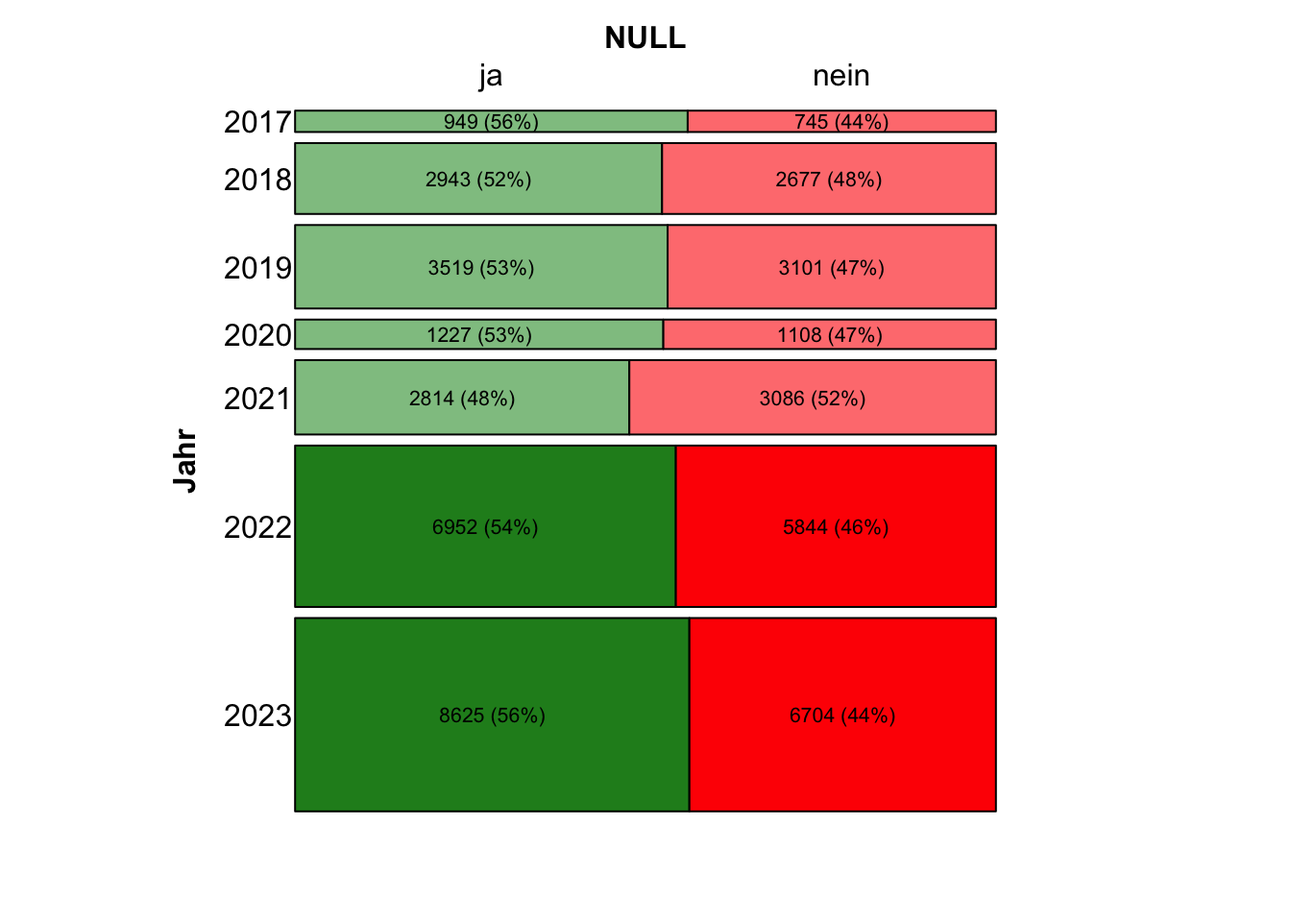
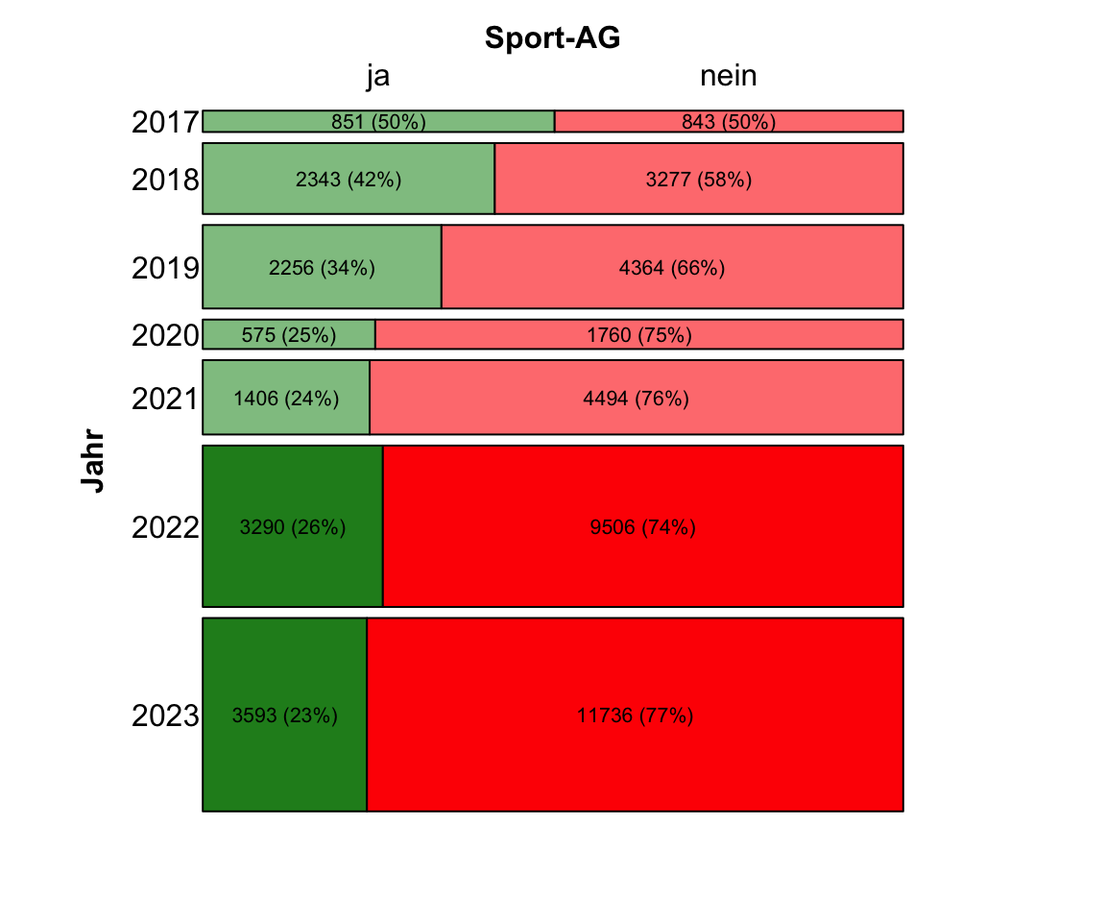
entfernung code 003

diff --git a/docs/003.html b/docs/003.html
@@ -22,40 +22,6 @@ ul.task-list li input[type="checkbox"] {
   margin: 0 0.8em 0.2em -1em; /* quarto-specific, see https://github.com/quarto-dev/quarto-cli/issues/4556 */ 
   vertical-align: middle;
 }
-/* CSS for syntax highlighting */
-pre > code.sourceCode { white-space: pre; position: relative; }
-pre > code.sourceCode > span { display: inline-block; line-height: 1.25; }
-pre > code.sourceCode > span:empty { height: 1.2em; }
-.sourceCode { overflow: visible; }
-code.sourceCode > span { color: inherit; text-decoration: inherit; }
-div.sourceCode { margin: 1em 0; }
-pre.sourceCode { margin: 0; }
-@media screen {
-div.sourceCode { overflow: auto; }
-}
-@media print {
-pre > code.sourceCode { white-space: pre-wrap; }
-pre > code.sourceCode > span { text-indent: -5em; padding-left: 5em; }
-}
-pre.numberSource code
-  { counter-reset: source-line 0; }
-pre.numberSource code > span
-  { position: relative; left: -4em; counter-increment: source-line; }
-pre.numberSource code > span > a:first-child::before
-  { content: counter(source-line);
-    position: relative; left: -1em; text-align: right; vertical-align: baseline;
-    border: none; display: inline-block;
-    -webkit-touch-callout: none; -webkit-user-select: none;
-    -khtml-user-select: none; -moz-user-select: none;
-    -ms-user-select: none; user-select: none;
-    padding: 0 4px; width: 4em;
-  }
-pre.numberSource { margin-left: 3em;  padding-left: 4px; }
-div.sourceCode
-  {   }
-@media screen {
-pre > code.sourceCode > span > a:first-child::before { text-decoration: underline; }
-}
 </style>
 
 
@@ -400,7 +366,7 @@ pre > code.sourceCode > span > a:first-child::before { text-decoration: underlin
     <div>
     <div class="quarto-title-meta-heading">Geändert</div>
     <div class="quarto-title-meta-contents">
-      <p class="date-modified">9. Juli 2024</p>
+      <p class="date-modified">11. Juli 2024</p>
     </div>
   </div>
     
@@ -417,21 +383,7 @@ pre > code.sourceCode > span > a:first-child::before { text-decoration: underlin
 
 <section id="räumliche-verteilung-und-entwicklung-der-veranstaltungen" class="level2">
 <h2 class="anchored" data-anchor-id="räumliche-verteilung-und-entwicklung-der-veranstaltungen">Räumliche Verteilung und Entwicklung der Veranstaltungen</h2>
-<div class="cell" data-hash="003_cache/html/unnamed-chunk-6_ed53c7ab650eab1d2ce1c475680919fd">
-<div class="sourceCode cell-code" id="cb1"><pre class="sourceCode r code-with-copy"><code class="sourceCode r"><span id="cb1-1"><a href="#cb1-1" aria-hidden="true" tabindex="-1"></a>d<span class="sc">$</span>Type <span class="ot">&lt;-</span> <span class="fu">trimws</span>(d<span class="sc">$</span>Type)</span>
-<span id="cb1-2"><a href="#cb1-2" aria-hidden="true" tabindex="-1"></a></span>
-<span id="cb1-3"><a href="#cb1-3" aria-hidden="true" tabindex="-1"></a></span>
-<span id="cb1-4"><a href="#cb1-4" aria-hidden="true" tabindex="-1"></a>p2<span class="ot">&lt;-</span><span class="fu">ggplot</span>(d,<span class="fu">aes</span>(<span class="at">x=</span>Year,<span class="at">fill=</span>Type,<span class="at">group=</span>Type))<span class="sc">+</span></span>
-<span id="cb1-5"><a href="#cb1-5" aria-hidden="true" tabindex="-1"></a>  <span class="fu">geom_bar</span>()<span class="sc">+</span></span>
-<span id="cb1-6"><a href="#cb1-6" aria-hidden="true" tabindex="-1"></a>  <span class="fu">annotate</span>(<span class="st">"text"</span>, <span class="at">x =</span> <span class="fl">2020.5</span>, <span class="at">y =</span> <span class="fl">7.5</span>, <span class="at">label =</span> <span class="st">"COVID-19</span><span class="sc">\n</span><span class="st">Pandemie"</span>,<span class="at">size=</span><span class="dv">3</span>)<span class="sc">+</span></span>
-<span id="cb1-7"><a href="#cb1-7" aria-hidden="true" tabindex="-1"></a>  <span class="fu">scale_fill_manual</span>(<span class="at">values=</span><span class="fu">c</span>(<span class="st">"#009ee3"</span>,<span class="st">"#9dc041"</span>))<span class="sc">+</span></span>
-<span id="cb1-8"><a href="#cb1-8" aria-hidden="true" tabindex="-1"></a>  <span class="fu">xlab</span>(<span class="st">"Jahr"</span>)<span class="sc">+</span></span>
-<span id="cb1-9"><a href="#cb1-9" aria-hidden="true" tabindex="-1"></a>  <span class="fu">ylab</span>(<span class="st">"Anzahl an Sportveranstaltungen"</span>)<span class="sc">+</span></span>
-<span id="cb1-10"><a href="#cb1-10" aria-hidden="true" tabindex="-1"></a>  <span class="fu">theme_bw</span>()<span class="sc">+</span></span>
-<span id="cb1-11"><a href="#cb1-11" aria-hidden="true" tabindex="-1"></a>  <span class="fu">theme</span>(<span class="at">legend.position =</span> <span class="st">"top"</span>)<span class="sc">+</span></span>
-<span id="cb1-12"><a href="#cb1-12" aria-hidden="true" tabindex="-1"></a> <span class="fu">guides</span>(<span class="at">fill=</span><span class="fu">guide_legend</span>(<span class="at">title=</span><span class="st">""</span>))</span>
-<span id="cb1-13"><a href="#cb1-13" aria-hidden="true" tabindex="-1"></a></span>
-<span id="cb1-14"><a href="#cb1-14" aria-hidden="true" tabindex="-1"></a>ggpubr<span class="sc">::</span><span class="fu">ggarrange</span>(p1,p2,<span class="at">nrow=</span><span class="dv">1</span>,<span class="at">common.legend =</span> <span class="cn">TRUE</span>,<span class="at">labels=</span><span class="st">"AUTO"</span>)</span></code><button title="In die Zwischenablage kopieren" class="code-copy-button"><i class="bi"></i></button></pre></div>
+<div class="cell" data-hash="003_cache/html/unnamed-chunk-6_3d8388a992bf84f45fafe6656345129e">
 <div class="cell-output-display">
 <div class="quarto-figure quarto-figure-center">
 <figure class="figure">
@@ -446,56 +398,7 @@ pre > code.sourceCode > span > a:first-child::before { text-decoration: underlin
 <h2 class="anchored" data-anchor-id="talentiaden">Talentiaden</h2>
 <section id="veranstaltungsorte" class="level3">
 <h3 class="anchored" data-anchor-id="veranstaltungsorte">Veranstaltungsorte</h3>
-<div class="cell" data-hash="003_cache/html/unnamed-chunk-7_2105171488f3f5c391e3e6ddea0539a0">
-<div class="sourceCode cell-code" id="cb2"><pre class="sourceCode r code-with-copy"><code class="sourceCode r"><span id="cb2-1"><a href="#cb2-1" aria-hidden="true" tabindex="-1"></a><span class="co"># Einladungen</span></span>
-<span id="cb2-2"><a href="#cb2-2" aria-hidden="true" tabindex="-1"></a>d1 <span class="ot">&lt;-</span> <span class="fu">read_csv</span>(<span class="st">"/Users/tw/Dropbox/website/bekigeki.github.io/data/Data-For-PDF-Versions-cohort-2023.csv"</span>)<span class="sc">|&gt;</span> </span>
-<span id="cb2-3"><a href="#cb2-3" aria-hidden="true" tabindex="-1"></a>  <span class="fu">filter</span>(Talentiade<span class="sc">==</span><span class="st">"TRUE"</span>)<span class="sc">|&gt;</span></span>
-<span id="cb2-4"><a href="#cb2-4" aria-hidden="true" tabindex="-1"></a>  <span class="fu">select</span>(Child,Sex,Admin,cohort)<span class="sc">|&gt;</span></span>
-<span id="cb2-5"><a href="#cb2-5" aria-hidden="true" tabindex="-1"></a>  <span class="fu">unique</span>()<span class="sc">|&gt;</span></span>
-<span id="cb2-6"><a href="#cb2-6" aria-hidden="true" tabindex="-1"></a>  <span class="fu">group_by</span>(Admin,cohort,Sex)<span class="sc">|&gt;</span></span>
-<span id="cb2-7"><a href="#cb2-7" aria-hidden="true" tabindex="-1"></a>  <span class="fu">reframe</span>(<span class="at">Einladungen=</span><span class="fu">length</span>(<span class="fu">unique</span>(Child)))<span class="sc">|&gt;</span></span>
-<span id="cb2-8"><a href="#cb2-8" aria-hidden="true" tabindex="-1"></a>  <span class="fu">mutate</span>(<span class="at">Admin =</span> <span class="fu">gsub</span>(<span class="st">"Staatliches Schulamt "</span>,<span class="st">""</span>,Admin))</span></code><button title="In die Zwischenablage kopieren" class="code-copy-button"><i class="bi"></i></button></pre></div>
-<div class="cell-output cell-output-stderr">
-<pre><code>New names:
-Rows: 92214 Columns: 120
-── Column specification
-──────────────────────────────────────────────────────── Delimiter: "," chr
-(60): Club, Admin, Performance_total, Sex, Child, Component, Admin_rank... dbl
-(57): ...1, Ambition, Admin_rank_keyage_200_limit, Admin_rank_keyage, r... lgl
-(1): Talentiade date (2): Testdate, Birthdate
-ℹ Use `spec()` to retrieve the full column specification for this data. ℹ
-Specify the column types or set `show_col_types = FALSE` to quiet this message.
-• `` -&gt; `...1`</code></pre>
-</div>
-<div class="sourceCode cell-code" id="cb4"><pre class="sourceCode r code-with-copy"><code class="sourceCode r"><span id="cb4-1"><a href="#cb4-1" aria-hidden="true" tabindex="-1"></a>d2<span class="ot">&lt;-</span>d <span class="sc">|&gt;</span> <span class="fu">filter</span>(Type<span class="sc">==</span><span class="st">"Talentiade"</span>) <span class="sc">|&gt;</span></span>
-<span id="cb4-2"><a href="#cb4-2" aria-hidden="true" tabindex="-1"></a>  <span class="fu">mutate</span>(<span class="at">cohort =</span> Year<span class="dv">-1</span>)<span class="sc">|&gt;</span></span>
-<span id="cb4-3"><a href="#cb4-3" aria-hidden="true" tabindex="-1"></a>  <span class="fu">pivot_longer</span>(<span class="at">cols =</span> <span class="fu">c</span>(TNw,TNm))<span class="sc">|&gt;</span></span>
-<span id="cb4-4"><a href="#cb4-4" aria-hidden="true" tabindex="-1"></a>  <span class="fu">rename</span>(<span class="at">Admin =</span> Board,</span>
-<span id="cb4-5"><a href="#cb4-5" aria-hidden="true" tabindex="-1"></a>         <span class="at">Teilnahmen=</span>value)<span class="sc">|&gt;</span></span>
-<span id="cb4-6"><a href="#cb4-6" aria-hidden="true" tabindex="-1"></a>  <span class="fu">mutate</span>(<span class="at">Sex =</span> <span class="fu">gsub</span>(<span class="st">"TN"</span>,<span class="st">""</span>,name))<span class="sc">|&gt;</span></span>
-<span id="cb4-7"><a href="#cb4-7" aria-hidden="true" tabindex="-1"></a>  <span class="fu">merge</span>(d1,<span class="at">all.x =</span> <span class="cn">TRUE</span>)<span class="sc">|&gt;</span></span>
-<span id="cb4-8"><a href="#cb4-8" aria-hidden="true" tabindex="-1"></a>  <span class="fu">mutate</span>(<span class="st">`</span><span class="at">Teilnahmen (%)</span><span class="st">`</span> <span class="ot">=</span> <span class="fu">round</span>(Teilnahmen<span class="sc">/</span>Einladungen<span class="sc">*</span><span class="dv">100</span>))<span class="sc">|&gt;</span></span>
-<span id="cb4-9"><a href="#cb4-9" aria-hidden="true" tabindex="-1"></a>  dplyr<span class="sc">::</span><span class="fu">filter</span>(<span class="sc">!</span>(cohort<span class="sc">&lt;</span><span class="dv">2023</span> <span class="sc">&amp;</span> Sex <span class="sc">==</span><span class="st">"w"</span>))<span class="sc">|&gt;</span></span>
-<span id="cb4-10"><a href="#cb4-10" aria-hidden="true" tabindex="-1"></a>  <span class="fu">mutate</span>(<span class="at">Sex =</span> <span class="fu">case_when</span>(cohort<span class="sc">&lt;</span><span class="dv">2023</span> <span class="sc">~</span> <span class="st">""</span>,<span class="at">.default=</span>Sex))<span class="sc">|&gt;</span> </span>
-<span id="cb4-11"><a href="#cb4-11" aria-hidden="true" tabindex="-1"></a>  <span class="fu">mutate</span>(<span class="at">Datum =</span> lubridate<span class="sc">::</span><span class="fu">ymd</span>(<span class="fu">paste0</span>(Year,<span class="st">"-"</span>,Month,<span class="st">"-"</span>,Day)))<span class="sc">|&gt;</span></span>
-<span id="cb4-12"><a href="#cb4-12" aria-hidden="true" tabindex="-1"></a>  dplyr<span class="sc">::</span><span class="fu">filter</span>(Type<span class="sc">==</span> <span class="st">"Talentiade"</span>)<span class="sc">|&gt;</span></span>
-<span id="cb4-13"><a href="#cb4-13" aria-hidden="true" tabindex="-1"></a>  <span class="fu">rename</span>(<span class="at">Ort=</span>address,</span>
-<span id="cb4-14"><a href="#cb4-14" aria-hidden="true" tabindex="-1"></a>         <span class="at">Jahr =</span> Year,</span>
-<span id="cb4-15"><a href="#cb4-15" aria-hidden="true" tabindex="-1"></a>         <span class="at">Geschlecht=</span>Sex,</span>
-<span id="cb4-16"><a href="#cb4-16" aria-hidden="true" tabindex="-1"></a>         <span class="at">Schulamt =</span> Admin</span>
-<span id="cb4-17"><a href="#cb4-17" aria-hidden="true" tabindex="-1"></a>         )</span>
-<span id="cb4-18"><a href="#cb4-18" aria-hidden="true" tabindex="-1"></a></span>
-<span id="cb4-19"><a href="#cb4-19" aria-hidden="true" tabindex="-1"></a>d2<span class="sc">|&gt;</span></span>
-<span id="cb4-20"><a href="#cb4-20" aria-hidden="true" tabindex="-1"></a>  <span class="co">#mutate(Jahr = trimws(Jahr))|&gt;</span></span>
-<span id="cb4-21"><a href="#cb4-21" aria-hidden="true" tabindex="-1"></a>  <span class="fu">select</span>(Jahr,Ort,Datum,Schulamt)<span class="sc">|&gt;</span><span class="fu">unique</span>()<span class="sc">|&gt;</span></span>
-<span id="cb4-22"><a href="#cb4-22" aria-hidden="true" tabindex="-1"></a>  <span class="fu">arrange</span>(Datum)<span class="sc">|&gt;</span></span>
-<span id="cb4-23"><a href="#cb4-23" aria-hidden="true" tabindex="-1"></a>  <span class="fu">reactable</span>(<span class="at">pagination=</span><span class="cn">FALSE</span>,</span>
-<span id="cb4-24"><a href="#cb4-24" aria-hidden="true" tabindex="-1"></a>            <span class="at">searchable =</span> <span class="cn">TRUE</span>,</span>
-<span id="cb4-25"><a href="#cb4-25" aria-hidden="true" tabindex="-1"></a>            <span class="at">sortable =</span> <span class="cn">TRUE</span>,</span>
-<span id="cb4-26"><a href="#cb4-26" aria-hidden="true" tabindex="-1"></a>            <span class="at">columns =</span> <span class="fu">list</span> (</span>
-<span id="cb4-27"><a href="#cb4-27" aria-hidden="true" tabindex="-1"></a>              <span class="at">Schulamt=</span><span class="fu">colDef</span>(<span class="at">style=</span><span class="fu">list</span>(<span class="st">`</span><span class="at">font-size</span><span class="st">`</span> <span class="ot">=</span> <span class="st">"0.70rem"</span>))),</span>
-<span id="cb4-28"><a href="#cb4-28" aria-hidden="true" tabindex="-1"></a>          <span class="co">#  filterable=TRUE,</span></span>
-<span id="cb4-29"><a href="#cb4-29" aria-hidden="true" tabindex="-1"></a>            <span class="at">groupBy =</span> <span class="fu">c</span>(<span class="st">"Jahr"</span>))</span></code><button title="In die Zwischenablage kopieren" class="code-copy-button"><i class="bi"></i></button></pre></div>
+<div class="cell" data-hash="003_cache/html/unnamed-chunk-7_accd80139bbd4a42becc0ffb40d32131">
 <div class="cell-output-display">
 
 <div class="reactable html-widget html-fill-item" id="htmlwidget-b7331ebbe70b78749d1b" style="width:auto;height:auto;"></div>
@@ -507,27 +410,11 @@ Specify the column types or set `show_col_types = FALSE` to quiet this message.
 <h3 class="anchored" data-anchor-id="einladungs--und-teilnehmerzahlen">Einladungs- und Teilnehmerzahlen</h3>
 <p>Talentiaden sollen zukünftig einmal jährlich je Staatlichem Schulamt stattfinden. Einladungen zu den Talentiaden erhalten Kinder ggf. mit ihren ausgedruckten Auswertungen nach besonders erfolgreichem Absolvieren des Bewegungs-Checks.</p>
 <p>Es ist nicht genau bekannt, wieviele Kinder vor dem Schuljahr 2023/2024 zu den Talentiaden eingeladen wurden, da nicht erfasst wurde, wieviele “Wildcards” (Schulen konnten begrenzt entscheiden konnten, welche Kinder zusätzlich an der Talentiade teilnehmen durften) tatsächlich an die Kinder weitergereicht wurden. Seit dem Schuljahr werden keine “Wildcards” mehr ausgegeben, wodurch die Anzahl eingeladener Kinder zu den Talentiadeveranstaltungen erfasst werden kann und den Organsiationsaufwand für die Veranstaltungen berechenbarer macht.</p>
-<div class="cell" data-hash="003_cache/html/unnamed-chunk-8_bed3ee3d923d0afebb466cfdea1d36e0">
-<div class="sourceCode cell-code" id="cb5"><pre class="sourceCode r code-with-copy"><code class="sourceCode r"><span id="cb5-1"><a href="#cb5-1" aria-hidden="true" tabindex="-1"></a>d2<span class="sc">|&gt;</span></span>
-<span id="cb5-2"><a href="#cb5-2" aria-hidden="true" tabindex="-1"></a>  <span class="fu">filter</span>(cohort<span class="sc">&gt;</span><span class="dv">2022</span>)<span class="sc">|&gt;</span></span>
-<span id="cb5-3"><a href="#cb5-3" aria-hidden="true" tabindex="-1"></a>  <span class="co">#filter(Schulamt!="Ostthüringen")|&gt;</span></span>
-<span id="cb5-4"><a href="#cb5-4" aria-hidden="true" tabindex="-1"></a>  <span class="co">#mutate(Jahr = trimws(Jahr))|&gt;</span></span>
-<span id="cb5-5"><a href="#cb5-5" aria-hidden="true" tabindex="-1"></a>  <span class="fu">mutate</span>(<span class="at">Schuljahr =</span> <span class="fu">paste0</span>(Jahr<span class="dv">-1</span>,<span class="st">"/"</span>,Jahr))<span class="sc">|&gt;</span></span>
-<span id="cb5-6"><a href="#cb5-6" aria-hidden="true" tabindex="-1"></a>  <span class="fu">select</span>(Schuljahr,Geschlecht,Ort,Datum,Schulamt,Einladungen,Teilnahmen, <span class="st">`</span><span class="at">Teilnahmen (%)</span><span class="st">`</span>)<span class="sc">|&gt;</span></span>
-<span id="cb5-7"><a href="#cb5-7" aria-hidden="true" tabindex="-1"></a>  <span class="fu">arrange</span>(Datum)<span class="sc">|&gt;</span></span>
-<span id="cb5-8"><a href="#cb5-8" aria-hidden="true" tabindex="-1"></a>  <span class="fu">reactable</span>(<span class="at">pagination=</span><span class="cn">FALSE</span>,</span>
-<span id="cb5-9"><a href="#cb5-9" aria-hidden="true" tabindex="-1"></a>            <span class="at">searchable =</span> <span class="cn">TRUE</span>,</span>
-<span id="cb5-10"><a href="#cb5-10" aria-hidden="true" tabindex="-1"></a>            <span class="at">sortable =</span> <span class="cn">TRUE</span>,</span>
-<span id="cb5-11"><a href="#cb5-11" aria-hidden="true" tabindex="-1"></a>            <span class="at">columns =</span> <span class="fu">list</span> (</span>
-<span id="cb5-12"><a href="#cb5-12" aria-hidden="true" tabindex="-1"></a>              <span class="at">Schulamt=</span><span class="fu">colDef</span>(<span class="at">style=</span><span class="fu">list</span>(<span class="st">`</span><span class="at">font-size</span><span class="st">`</span> <span class="ot">=</span> <span class="st">"0.70rem"</span>)),</span>
-<span id="cb5-13"><a href="#cb5-13" aria-hidden="true" tabindex="-1"></a>              <span class="at">Einladungen=</span> <span class="fu">colDef</span>(<span class="at">aggregate =</span> <span class="st">"sum"</span>),</span>
-<span id="cb5-14"><a href="#cb5-14" aria-hidden="true" tabindex="-1"></a>                            <span class="at">Teilnahmen=</span> <span class="fu">colDef</span>(<span class="at">aggregate =</span> <span class="st">"sum"</span>)),</span>
-<span id="cb5-15"><a href="#cb5-15" aria-hidden="true" tabindex="-1"></a>          <span class="co">#  filterable=TRUE,</span></span>
-<span id="cb5-16"><a href="#cb5-16" aria-hidden="true" tabindex="-1"></a>            <span class="at">groupBy =</span> <span class="fu">c</span>(<span class="st">"Schulamt"</span>))</span></code><button title="In die Zwischenablage kopieren" class="code-copy-button"><i class="bi"></i></button></pre></div>
+<div class="cell" data-hash="003_cache/html/unnamed-chunk-8_f8539d321dbc59670fb88a22e541cf38">
 <div class="cell-output-display">
 
-<div class="reactable html-widget html-fill-item" id="htmlwidget-16ea81719e65a559b3f7" style="width:auto;height:auto;"></div>
-<script type="application/json" data-for="htmlwidget-16ea81719e65a559b3f7">{"x":{"tag":{"name":"Reactable","attribs":{"data":{"Schuljahr":["2023/2024","2023/2024","2023/2024","2023/2024","2023/2024","2023/2024","2023/2024","2023/2024"],"Geschlecht":["m","w","m","w","m","w","m","w"],"Ort":["Erfurt","Erfurt","Nessetal","Nessetal","Nordhausen","Nordhausen","Gera","Gera"],"Datum":["2024-04-13","2024-04-13","2024-04-27","2024-04-27","2024-05-04","2024-05-04","2024-08-24","2024-08-24"],"Schulamt":["Mittelthüringen","Mittelthüringen","Westthüringen","Westthüringen","Nordthüringen","Nordthüringen","Ostthüringen","Ostthüringen"],"Einladungen":[167,156,249,232,165,157,235,257],"Teilnahmen":[64,59,72,88,59,54,"NA","NA"],"Teilnahmen (%)":[38,38,29,38,36,34,"NA","NA"]},"columns":[{"id":"Schuljahr","name":"Schuljahr","type":"character"},{"id":"Geschlecht","name":"Geschlecht","type":"character"},{"id":"Ort","name":"Ort","type":"character"},{"id":"Datum","name":"Datum","type":"Date"},{"id":"Schulamt","name":"Schulamt","type":"character","style":{"font-size":"0.70rem"}},{"id":"Einladungen","name":"Einladungen","type":"numeric","aggregate":"sum"},{"id":"Teilnahmen","name":"Teilnahmen","type":"numeric","aggregate":"sum"},{"id":"Teilnahmen (%)","name":"Teilnahmen (%)","type":"numeric"}],"groupBy":["Schulamt"],"searchable":true,"pagination":false,"dataKey":"8169778219abbf535d1d6bee57f06f3c"},"children":[]},"class":"reactR_markup"},"evals":[],"jsHooks":[]}</script>
+<div class="reactable html-widget html-fill-item" id="htmlwidget-b7331ebbe70b78749d1b" style="width:auto;height:auto;"></div>
+<script type="application/json" data-for="htmlwidget-b7331ebbe70b78749d1b">{"x":{"tag":{"name":"Reactable","attribs":{"data":{"Schuljahr":["2023/2024","2023/2024","2023/2024","2023/2024","2023/2024","2023/2024","2023/2024","2023/2024"],"Geschlecht":["m","w","m","w","m","w","m","w"],"Ort":["Erfurt","Erfurt","Nessetal","Nessetal","Nordhausen","Nordhausen","Gera","Gera"],"Datum":["2024-04-13","2024-04-13","2024-04-27","2024-04-27","2024-05-04","2024-05-04","2024-08-24","2024-08-24"],"Schulamt":["Mittelthüringen","Mittelthüringen","Westthüringen","Westthüringen","Nordthüringen","Nordthüringen","Ostthüringen","Ostthüringen"],"Einladungen":[167,156,249,232,165,157,235,257],"Teilnahmen":[64,59,72,88,59,54,"NA","NA"],"Teilnahmen (%)":[38,38,29,38,36,34,"NA","NA"]},"columns":[{"id":"Schuljahr","name":"Schuljahr","type":"character"},{"id":"Geschlecht","name":"Geschlecht","type":"character"},{"id":"Ort","name":"Ort","type":"character"},{"id":"Datum","name":"Datum","type":"Date"},{"id":"Schulamt","name":"Schulamt","type":"character","style":{"font-size":"0.70rem"}},{"id":"Einladungen","name":"Einladungen","type":"numeric","aggregate":"sum"},{"id":"Teilnahmen","name":"Teilnahmen","type":"numeric","aggregate":"sum"},{"id":"Teilnahmen (%)","name":"Teilnahmen (%)","type":"numeric"}],"groupBy":["Schulamt"],"searchable":true,"pagination":false,"dataKey":"8169778219abbf535d1d6bee57f06f3c"},"children":[]},"class":"reactR_markup"},"evals":[],"jsHooks":[]}</script>
 </div>
 </div>
 </section>
@@ -535,30 +422,11 @@ Specify the column types or set `show_col_types = FALSE` to quiet this message.
 <section id="tage-des-sports--und-der-gesundheitsförderung" class="level2">
 <h2 class="anchored" data-anchor-id="tage-des-sports--und-der-gesundheitsförderung">Tage des Sports- und der Gesundheitsförderung</h2>
 <p>Die “Tage des Sports- und der Gesundheitsförderung” werden von den Kreissportbünden einmal pro Schuljahr durchgeführt. Alle Kinder im laufenden Schuljahr die Dritten Klassenstufe einer Thüringer Schule besuchen, sind eingeladen, daran teilzunehmen. Teilnehmerzahlen werden dazu nicht erfasst. Die folgende Tabelle protokolliert nur die Ort und Zeiten der Veranstaltungen der vergangenen Jahre. Durch einen Klick mit der Mouse auf einen Sportbund entfaltet sich die Gruppierung mit Informationen zu Ort und Datum. Teilnehmerzahlen zu den Tagen des Sports- und der Gesundheitsförderung werden nicht erfasst.</p>
-<div class="cell" data-hash="003_cache/html/unnamed-chunk-9_6bb0b591d84c7904a5f39fd8db3aa0b9">
-<div class="sourceCode cell-code" id="cb6"><pre class="sourceCode r code-with-copy"><code class="sourceCode r"><span id="cb6-1"><a href="#cb6-1" aria-hidden="true" tabindex="-1"></a>d<span class="sc">|&gt;</span> </span>
-<span id="cb6-2"><a href="#cb6-2" aria-hidden="true" tabindex="-1"></a>  <span class="fu">mutate</span>(<span class="at">Datum =</span> lubridate<span class="sc">::</span><span class="fu">ymd</span>(<span class="fu">paste0</span>(Year,<span class="st">"-"</span>,Month,<span class="st">"-"</span>,Day)))<span class="sc">|&gt;</span></span>
-<span id="cb6-3"><a href="#cb6-3" aria-hidden="true" tabindex="-1"></a>  <span class="fu">rename</span>(<span class="at">Ort=</span>address,</span>
-<span id="cb6-4"><a href="#cb6-4" aria-hidden="true" tabindex="-1"></a>         <span class="at">Jahr =</span> Year,</span>
-<span id="cb6-5"><a href="#cb6-5" aria-hidden="true" tabindex="-1"></a>         <span class="at">Veranstaltung=</span>Type,</span>
-<span id="cb6-6"><a href="#cb6-6" aria-hidden="true" tabindex="-1"></a>         <span class="at">Sportbund =</span> Board</span>
-<span id="cb6-7"><a href="#cb6-7" aria-hidden="true" tabindex="-1"></a>         )<span class="sc">|&gt;</span></span>
-<span id="cb6-8"><a href="#cb6-8" aria-hidden="true" tabindex="-1"></a>  <span class="fu">mutate</span>(<span class="at">Schuljahr =</span> <span class="fu">paste0</span>(Jahr<span class="dv">-1</span>,<span class="st">"/"</span>,Jahr))<span class="sc">|&gt;</span></span>
-<span id="cb6-9"><a href="#cb6-9" aria-hidden="true" tabindex="-1"></a>  dplyr<span class="sc">::</span><span class="fu">filter</span>(Veranstaltung<span class="sc">!=</span> <span class="st">"Talentiade"</span>)<span class="sc">|&gt;</span></span>
-<span id="cb6-10"><a href="#cb6-10" aria-hidden="true" tabindex="-1"></a>  <span class="co">#mutate(Jahr = trimws(Jahr))|&gt;</span></span>
-<span id="cb6-11"><a href="#cb6-11" aria-hidden="true" tabindex="-1"></a>  <span class="fu">select</span>(Schuljahr,Ort,Datum,Sportbund)<span class="sc">|&gt;</span></span>
-<span id="cb6-12"><a href="#cb6-12" aria-hidden="true" tabindex="-1"></a>  <span class="fu">arrange</span>(Schuljahr,Datum)<span class="sc">|&gt;</span></span>
-<span id="cb6-13"><a href="#cb6-13" aria-hidden="true" tabindex="-1"></a>  <span class="fu">reactable</span>(<span class="at">pagination=</span><span class="cn">FALSE</span>,</span>
-<span id="cb6-14"><a href="#cb6-14" aria-hidden="true" tabindex="-1"></a>            <span class="at">searchable =</span> <span class="cn">TRUE</span>,</span>
-<span id="cb6-15"><a href="#cb6-15" aria-hidden="true" tabindex="-1"></a>            <span class="at">sortable =</span> <span class="cn">TRUE</span>,</span>
-<span id="cb6-16"><a href="#cb6-16" aria-hidden="true" tabindex="-1"></a>          <span class="co">#  filterable=TRUE,</span></span>
-<span id="cb6-17"><a href="#cb6-17" aria-hidden="true" tabindex="-1"></a>          <span class="at">columns =</span> <span class="fu">list</span> (<span class="at">Sportbund =</span> <span class="fu">colDef</span>(</span>
-<span id="cb6-18"><a href="#cb6-18" aria-hidden="true" tabindex="-1"></a>          <span class="at">style=</span><span class="fu">list</span>(<span class="st">`</span><span class="at">font-size</span><span class="st">`</span> <span class="ot">=</span> <span class="st">"0.70rem"</span>))),</span>
-<span id="cb6-19"><a href="#cb6-19" aria-hidden="true" tabindex="-1"></a>            <span class="at">groupBy =</span> <span class="fu">c</span>(<span class="st">"Sportbund"</span>))</span></code><button title="In die Zwischenablage kopieren" class="code-copy-button"><i class="bi"></i></button></pre></div>
+<div class="cell" data-hash="003_cache/html/unnamed-chunk-9_12100cf4f5c4e47f9d9a1676a5bb7e47">
 <div class="cell-output-display">
 
-<div class="reactable html-widget html-fill-item" id="htmlwidget-00a70509e4576650ef8f" style="width:auto;height:auto;"></div>
-<script type="application/json" data-for="htmlwidget-00a70509e4576650ef8f">{"x":{"tag":{"name":"Reactable","attribs":{"data":{"Schuljahr":["2017/2018","2017/2018","2017/2018","2017/2018","2017/2018","2017/2018","2017/2018","2017/2018","2017/2018","2017/2018","2017/2018","2017/2018","2017/2018","2017/2018","2017/2018","2018/2019","2018/2019","2018/2019","2018/2019","2018/2019","2018/2019","2018/2019","2018/2019","2018/2019","2018/2019","2018/2019","2018/2019","2018/2019","2018/2019","2018/2019","2018/2019","2020/2021","2020/2021","2020/2021","2020/2021","2021/2022","2021/2022","2021/2022","2021/2022","2021/2022","2021/2022","2021/2022","2021/2022","2021/2022","2021/2022","2021/2022","2021/2022","2021/2022","2021/2022","2021/2022","2021/2022","2021/2022","2021/2022","2021/2022","2021/2022","2021/2022","2022/2023","2022/2023","2022/2023","2022/2023","2022/2023","2022/2023","2022/2023","2022/2023","2022/2023","2022/2023","2022/2023","2022/2023","2022/2023","2022/2023","2022/2023","2022/2023","2022/2023","2022/2023","2022/2023","2022/2023","2022/2023","2022/2023","2022/2023","2022/2023","2022/2023","2022/2023","2022/2023","2022/2023","2022/2023","2022/2023","2022/2023","2023/2024","2023/2024","2023/2024","2023/2024","2023/2024","2023/2024","2023/2024","2023/2024","2023/2024","2023/2024","2023/2024","2023/2024","2023/2024","2023/2024","2023/2024","2023/2024","2023/2024","2023/2024","2023/2024","2023/2024","2023/2024"],"Ort":["Leinefelde-Worbis","Wutha-Farnroda","Schönau (Wutha-Farnroda)","Hildburghausen","Apolda","Berlstedt","Nordhausen","Zottelstedt","Nordhausen","Wandersleben","Niedersalza","Nordhausen","Wipperdorf","Erfurt","Gotha","Leinefelde","Erfurt","Bad Liebenstein","Zeulenroda","Gera","Nordhausen","Hermsdorf/Thür.","Eisenach","Sondershausen","Jena","Altenburg","Hildburghausen","Apolda","Suhl","Bad Sulza","Weimar","Nordhausen","Bad Berka","Jena","Apolda","Leinefelde","Erfurt","Sonneberg","Sömmerda","Jena","Sondershausen","Hildburghausen","Bad Salzungen","Altenburg","Weimar","Wernshausen","Suhl","Neustadt/Orla","Nordhausen","Zeulenroda","Apolda","Arnstadt","Eisenach","Gera","Hermsdorf/Thür.","Bad Sulza","Leinefelde","Weimar","Gera","Heilbad Heiligenstadt/Thüringen","Greußen","Hildburghausen","Jena","Mannstedt","Dingelstädt","Sondershausen","Schmalkalden","Meiningen","Bad Frankenhausen","Zella-Mehlis","Berlstedt","Nordhausen","Suhl","Bad Salzungen","Altenburg","Gotha","Udersleben","Erfurt","Apolda","Neuhaus am Rennweg","Weißensee/Thüringen","Stadtroda","Eisenach","Wernshausen","Schleiz","Oepfershausen","Arnstadt","Weimar","Bad Langensalza","Hildburghausen","Gera","Erfurt","Jena","Leinefelde","Eisenberg","Suhl","Bad Salzungen","Neuhaus am Rennweg","Nordhausen","Schmalkalden","Schmölln","Kaltenwestheim","Erfurt","Ilmenau","Oepfershausen","Buttstädt","Apolda","Bad Lobenstein"],"Datum":["2018-04-21","2018-05-05","2018-05-25","2018-06-03","2018-06-06","2018-06-14","2018-06-18","2018-06-20","2018-06-21","2018-06-21","2018-06-22","2018-06-22","2018-06-23","2018-06-25","2018-08-29","2019-03-30","2019-05-01","2019-05-09","2019-05-18","2019-05-25","2019-05-25","2019-06-01","2019-06-08","2019-06-08","2019-06-15","2019-06-22","2019-06-22","2019-06-29","2019-06-29","2019-09-07","2019-11-17","2021-09-04","2021-09-11","2021-09-25","2021-12-04","2022-04-30","2022-05-01","2022-05-07","2022-05-14","2022-05-21","2022-05-21","2022-05-22","2022-06-09","2022-06-11","2022-06-11","2022-06-15","2022-06-24","2022-06-25","2022-06-25","2022-07-01","2022-07-02","2022-07-09","2022-07-09","2022-07-16","2022-07-17","2022-09-03","2023-04-22","2023-04-22","2023-04-29","2023-04-29","2023-05-01","2023-05-06","2023-05-06","2023-05-13","2023-05-19","2023-05-24","2023-05-27","2023-05-31","2023-06-01","2023-06-01","2023-06-02","2023-06-03","2023-06-04","2023-06-08","2023-06-10","2023-06-10","2023-06-10","2023-06-15","2023-06-17","2023-06-17","2023-06-17","2023-06-23","2023-06-24","2023-06-24","2023-06-25","2023-06-30","2023-07-01","2024-04-13","2024-04-20","2024-04-20","2024-04-27","2024-05-01","2024-05-04","2024-05-24","2024-05-31","2024-05-31","2024-06-01","2024-06-01","2024-06-01","2024-06-01","2024-06-01","2024-06-03","2024-06-06","2024-06-07","2024-06-07","2024-06-08","2024-06-12","2024-06-24"],"Sportbund":["KSB Eichsfeld e.V.","KSB Eisenach e.V.","KSB Gotha e.V.","KSB Hildburghausen e.V.","KSB Weimarer Land e.V.","KSB Weimarer Land e.V.","KSB Nordhausen e.V.","KSB Weimarer Land e.V.","KSB Nordhausen e.V.","KSB Gotha e.V.","KSB Nordhausen e.V.","KSB Nordhausen e.V.","KSB Nordhausen e.V.","SSB Erfurt e.V.","KSB Gotha e.V.","KSB Eichsfeld e.V.","SSB Erfurt e.V.","KSB Bad Salzungen e.V.","KSB Greiz e.V.","SSB Gera e.V.","KSB Nordhausen e.V.","KSB Saale-Holzland e.V.","KSB Eisenach e.V.","KSB Kyffhäuser e.V.","SSB Jena e.V.","KSB Altenburger Land e.V.","KSB Hildburghausen e.V.","KSB Weimarer Land e.V.","SSB Suhl e.V.","KSB Weimarer Land e.V.","SSB Weimar e.V.","KSB Nordhausen e.V.","KSB Weimarer Land e.V.","SSB Jena e.V.","KSB Weimarer Land e.V.","KSB Eichsfeld e.V.","SSB Erfurt e.V.","KSB Sonneberg e.V.","KSB Sömmerda e.V.","SSB Jena e.V.","KSB Kyffhäuser e.V.","KSB Hildburghausen e.V.","KSB Bad Salzungen e.V.","KSB Altenburger Land e.V.","SSB Weimar e.V.","KSB Schmalkalden-Meiningen e.V.","SSB Suhl e.V.","KSB Saale-Orla e.V.","KSB Nordhausen e.V.","KSB Greiz e.V.","KSB Weimarer Land e.V.","KSB Ilm-Kreis e.V.","KSB Eisenach e.V.","SSB Gera e.V.","KSB Saale-Holzland e.V.","KSB Weimarer Land e.V.","KSB Eichsfeld e.V.","SSB Weimar e.V.","SSB Gera e.V.","KSB Eichsfeld e.V.","KSB Kyffhäuser e.V.","KSB Hildburghausen e.V.","SSB Jena e.V.","KSB Sömmerda","KSB Eichsfeld e.V.","KSB Kyffhäuser e.V.","KSB Schmalkalden-Meiningen e.V.","KSB Schmalkalden-Meiningen e.V.","KSB Kyffhäuser e.V.","KSB Schmalkalden-Meiningen e.V.","KSB Weimarer Land e.V.","KSB Nordhausen e.V.","SSB Suhl e.V.","KSB Bad Salzungen e.V.","KSB Altenburger Land e.V.","KSB Gotha","KSB Kyffhäuser e.V.","SSB Erfurt e.V.","KSB Weimarer Land e.V.","KSB Sonneberg e.V.","KSB Sömmerda","KSB Saale-Holzland e.V.","KSB Eisenach e.V.","KSB Schmalkalden-Meiningen e.V.","KSB Saale-Orla e.V.","KSB Schmalkalden-Meiningen e.V.","KSB Ilm-Kreis e.V.","SSB Weimar e.V.","KSB Unstrut-Hainich e.V.","KSB Hildburghausen e.V.","SSB Gera e.V.","SSB Erfurt e.V.","SSB Jena e.V.","KSB Eichsfeld e.V.","KSB Saale-Holzland e.V.","SSB Suhl e.V.","KSB Bad Salzungen e.V.","KSB Sonneberg e.V.","KSB Nordhausen e.V.","KSB Schmalkalden-Meiningen e.V.","KSB Altenburger Land e.V.","KSB Schmalkalden-Meiningen e.V.","SSB Erfurt e.V.","KSB Ilm-Kreis e.V.","KSB Schmalkalden-Meiningen e.V.","KSB Sömmerda e.V.","KSB Weimarer Land e.V.","KSB Saale-Orla e.V."]},"columns":[{"id":"Schuljahr","name":"Schuljahr","type":"character"},{"id":"Ort","name":"Ort","type":"character"},{"id":"Datum","name":"Datum","type":"Date"},{"id":"Sportbund","name":"Sportbund","type":"character","style":{"font-size":"0.70rem"}}],"groupBy":["Sportbund"],"searchable":true,"pagination":false,"dataKey":"51ce976b5027bb491c2d2d3416cae124"},"children":[]},"class":"reactR_markup"},"evals":[],"jsHooks":[]}</script>
+<div class="reactable html-widget html-fill-item" id="htmlwidget-b7331ebbe70b78749d1b" style="width:auto;height:auto;"></div>
+<script type="application/json" data-for="htmlwidget-b7331ebbe70b78749d1b">{"x":{"tag":{"name":"Reactable","attribs":{"data":{"Schuljahr":["2017/2018","2017/2018","2017/2018","2017/2018","2017/2018","2017/2018","2017/2018","2017/2018","2017/2018","2017/2018","2017/2018","2017/2018","2017/2018","2017/2018","2017/2018","2018/2019","2018/2019","2018/2019","2018/2019","2018/2019","2018/2019","2018/2019","2018/2019","2018/2019","2018/2019","2018/2019","2018/2019","2018/2019","2018/2019","2018/2019","2018/2019","2020/2021","2020/2021","2020/2021","2020/2021","2021/2022","2021/2022","2021/2022","2021/2022","2021/2022","2021/2022","2021/2022","2021/2022","2021/2022","2021/2022","2021/2022","2021/2022","2021/2022","2021/2022","2021/2022","2021/2022","2021/2022","2021/2022","2021/2022","2021/2022","2021/2022","2022/2023","2022/2023","2022/2023","2022/2023","2022/2023","2022/2023","2022/2023","2022/2023","2022/2023","2022/2023","2022/2023","2022/2023","2022/2023","2022/2023","2022/2023","2022/2023","2022/2023","2022/2023","2022/2023","2022/2023","2022/2023","2022/2023","2022/2023","2022/2023","2022/2023","2022/2023","2022/2023","2022/2023","2022/2023","2022/2023","2022/2023","2023/2024","2023/2024","2023/2024","2023/2024","2023/2024","2023/2024","2023/2024","2023/2024","2023/2024","2023/2024","2023/2024","2023/2024","2023/2024","2023/2024","2023/2024","2023/2024","2023/2024","2023/2024","2023/2024","2023/2024","2023/2024"],"Ort":["Leinefelde-Worbis","Wutha-Farnroda","Schönau (Wutha-Farnroda)","Hildburghausen","Apolda","Berlstedt","Nordhausen","Zottelstedt","Nordhausen","Wandersleben","Niedersalza","Nordhausen","Wipperdorf","Erfurt","Gotha","Leinefelde","Erfurt","Bad Liebenstein","Zeulenroda","Gera","Nordhausen","Hermsdorf/Thür.","Eisenach","Sondershausen","Jena","Altenburg","Hildburghausen","Apolda","Suhl","Bad Sulza","Weimar","Nordhausen","Bad Berka","Jena","Apolda","Leinefelde","Erfurt","Sonneberg","Sömmerda","Jena","Sondershausen","Hildburghausen","Bad Salzungen","Altenburg","Weimar","Wernshausen","Suhl","Neustadt/Orla","Nordhausen","Zeulenroda","Apolda","Arnstadt","Eisenach","Gera","Hermsdorf/Thür.","Bad Sulza","Leinefelde","Weimar","Gera","Heilbad Heiligenstadt/Thüringen","Greußen","Hildburghausen","Jena","Mannstedt","Dingelstädt","Sondershausen","Schmalkalden","Meiningen","Bad Frankenhausen","Zella-Mehlis","Berlstedt","Nordhausen","Suhl","Bad Salzungen","Altenburg","Gotha","Udersleben","Erfurt","Apolda","Neuhaus am Rennweg","Weißensee/Thüringen","Stadtroda","Eisenach","Wernshausen","Schleiz","Oepfershausen","Arnstadt","Weimar","Bad Langensalza","Hildburghausen","Gera","Erfurt","Jena","Leinefelde","Eisenberg","Suhl","Bad Salzungen","Neuhaus am Rennweg","Nordhausen","Schmalkalden","Schmölln","Kaltenwestheim","Erfurt","Ilmenau","Oepfershausen","Buttstädt","Apolda","Bad Lobenstein"],"Datum":["2018-04-21","2018-05-05","2018-05-25","2018-06-03","2018-06-06","2018-06-14","2018-06-18","2018-06-20","2018-06-21","2018-06-21","2018-06-22","2018-06-22","2018-06-23","2018-06-25","2018-08-29","2019-03-30","2019-05-01","2019-05-09","2019-05-18","2019-05-25","2019-05-25","2019-06-01","2019-06-08","2019-06-08","2019-06-15","2019-06-22","2019-06-22","2019-06-29","2019-06-29","2019-09-07","2019-11-17","2021-09-04","2021-09-11","2021-09-25","2021-12-04","2022-04-30","2022-05-01","2022-05-07","2022-05-14","2022-05-21","2022-05-21","2022-05-22","2022-06-09","2022-06-11","2022-06-11","2022-06-15","2022-06-24","2022-06-25","2022-06-25","2022-07-01","2022-07-02","2022-07-09","2022-07-09","2022-07-16","2022-07-17","2022-09-03","2023-04-22","2023-04-22","2023-04-29","2023-04-29","2023-05-01","2023-05-06","2023-05-06","2023-05-13","2023-05-19","2023-05-24","2023-05-27","2023-05-31","2023-06-01","2023-06-01","2023-06-02","2023-06-03","2023-06-04","2023-06-08","2023-06-10","2023-06-10","2023-06-10","2023-06-15","2023-06-17","2023-06-17","2023-06-17","2023-06-23","2023-06-24","2023-06-24","2023-06-25","2023-06-30","2023-07-01","2024-04-13","2024-04-20","2024-04-20","2024-04-27","2024-05-01","2024-05-04","2024-05-24","2024-05-31","2024-05-31","2024-06-01","2024-06-01","2024-06-01","2024-06-01","2024-06-01","2024-06-03","2024-06-06","2024-06-07","2024-06-07","2024-06-08","2024-06-12","2024-06-24"],"Sportbund":["KSB Eichsfeld e.V.","KSB Eisenach e.V.","KSB Gotha e.V.","KSB Hildburghausen e.V.","KSB Weimarer Land e.V.","KSB Weimarer Land e.V.","KSB Nordhausen e.V.","KSB Weimarer Land e.V.","KSB Nordhausen e.V.","KSB Gotha e.V.","KSB Nordhausen e.V.","KSB Nordhausen e.V.","KSB Nordhausen e.V.","SSB Erfurt e.V.","KSB Gotha e.V.","KSB Eichsfeld e.V.","SSB Erfurt e.V.","KSB Bad Salzungen e.V.","KSB Greiz e.V.","SSB Gera e.V.","KSB Nordhausen e.V.","KSB Saale-Holzland e.V.","KSB Eisenach e.V.","KSB Kyffhäuser e.V.","SSB Jena e.V.","KSB Altenburger Land e.V.","KSB Hildburghausen e.V.","KSB Weimarer Land e.V.","SSB Suhl e.V.","KSB Weimarer Land e.V.","SSB Weimar e.V.","KSB Nordhausen e.V.","KSB Weimarer Land e.V.","SSB Jena e.V.","KSB Weimarer Land e.V.","KSB Eichsfeld e.V.","SSB Erfurt e.V.","KSB Sonneberg e.V.","KSB Sömmerda e.V.","SSB Jena e.V.","KSB Kyffhäuser e.V.","KSB Hildburghausen e.V.","KSB Bad Salzungen e.V.","KSB Altenburger Land e.V.","SSB Weimar e.V.","KSB Schmalkalden-Meiningen e.V.","SSB Suhl e.V.","KSB Saale-Orla e.V.","KSB Nordhausen e.V.","KSB Greiz e.V.","KSB Weimarer Land e.V.","KSB Ilm-Kreis e.V.","KSB Eisenach e.V.","SSB Gera e.V.","KSB Saale-Holzland e.V.","KSB Weimarer Land e.V.","KSB Eichsfeld e.V.","SSB Weimar e.V.","SSB Gera e.V.","KSB Eichsfeld e.V.","KSB Kyffhäuser e.V.","KSB Hildburghausen e.V.","SSB Jena e.V.","KSB Sömmerda","KSB Eichsfeld e.V.","KSB Kyffhäuser e.V.","KSB Schmalkalden-Meiningen e.V.","KSB Schmalkalden-Meiningen e.V.","KSB Kyffhäuser e.V.","KSB Schmalkalden-Meiningen e.V.","KSB Weimarer Land e.V.","KSB Nordhausen e.V.","SSB Suhl e.V.","KSB Bad Salzungen e.V.","KSB Altenburger Land e.V.","KSB Gotha","KSB Kyffhäuser e.V.","SSB Erfurt e.V.","KSB Weimarer Land e.V.","KSB Sonneberg e.V.","KSB Sömmerda","KSB Saale-Holzland e.V.","KSB Eisenach e.V.","KSB Schmalkalden-Meiningen e.V.","KSB Saale-Orla e.V.","KSB Schmalkalden-Meiningen e.V.","KSB Ilm-Kreis e.V.","SSB Weimar e.V.","KSB Unstrut-Hainich e.V.","KSB Hildburghausen e.V.","SSB Gera e.V.","SSB Erfurt e.V.","SSB Jena e.V.","KSB Eichsfeld e.V.","KSB Saale-Holzland e.V.","SSB Suhl e.V.","KSB Bad Salzungen e.V.","KSB Sonneberg e.V.","KSB Nordhausen e.V.","KSB Schmalkalden-Meiningen e.V.","KSB Altenburger Land e.V.","KSB Schmalkalden-Meiningen e.V.","SSB Erfurt e.V.","KSB Ilm-Kreis e.V.","KSB Schmalkalden-Meiningen e.V.","KSB Sömmerda e.V.","KSB Weimarer Land e.V.","KSB Saale-Orla e.V."]},"columns":[{"id":"Schuljahr","name":"Schuljahr","type":"character"},{"id":"Ort","name":"Ort","type":"character"},{"id":"Datum","name":"Datum","type":"Date"},{"id":"Sportbund","name":"Sportbund","type":"character","style":{"font-size":"0.70rem"}}],"groupBy":["Sportbund"],"searchable":true,"pagination":false,"dataKey":"51ce976b5027bb491c2d2d3416cae124"},"children":[]},"class":"reactR_markup"},"evals":[],"jsHooks":[]}</script>
 </div>
 </div>
 </section>

diff --git a/docs/017.html b/docs/017.html
@@ -302,7 +302,7 @@ ul.task-list li input[type="checkbox"] {
     <h2 id="toc-title">Auf dieser Seite</h2>
    
   <ul>
-  <li><a href="#überblick-datensatz-anzahl-nennungen-ungefiltert" id="toc-überblick-datensatz-anzahl-nennungen-ungefiltert" class="nav-link active" data-scroll-target="#überblick-datensatz-anzahl-nennungen-ungefiltert">Überblick Datensatz (Anzahl Nennungen ungefiltert)</a></li>
+  <li><a href="#überblick-datensatz-jahre-2017-2023" id="toc-überblick-datensatz-jahre-2017-2023" class="nav-link active" data-scroll-target="#überblick-datensatz-jahre-2017-2023">Überblick Datensatz (Jahre 2017-2023)</a></li>
   <li><a href="#sport-ag" id="toc-sport-ag" class="nav-link" data-scroll-target="#sport-ag">Sport-AG</a></li>
   <li><a href="#vereinsmitgliedschaft" id="toc-vereinsmitgliedschaft" class="nav-link" data-scroll-target="#vereinsmitgliedschaft">Vereinsmitgliedschaft</a></li>
   <li><a href="#weder-vereinsmitgliedschaft-noch-teilnahme-sport-ag" id="toc-weder-vereinsmitgliedschaft-noch-teilnahme-sport-ag" class="nav-link" data-scroll-target="#weder-vereinsmitgliedschaft-noch-teilnahme-sport-ag">Weder Vereinsmitgliedschaft noch Teilnahme Sport-AG</a></li>
@@ -355,7 +355,7 @@ ul.task-list li input[type="checkbox"] {
     <div>
     <div class="quarto-title-meta-heading">Geändert</div>
     <div class="quarto-title-meta-contents">
-      <p class="date-modified">9. Juli 2024</p>
+      <p class="date-modified">11. Juli 2024</p>
     </div>
   </div>
     
@@ -364,40 +364,31 @@ ul.task-list li input[type="checkbox"] {
 
 </header>
 
-<section id="überblick-datensatz-anzahl-nennungen-ungefiltert" class="level1">
-<h1>Überblick Datensatz (Anzahl Nennungen ungefiltert)</h1>
+<section id="überblick-datensatz-jahre-2017-2023" class="level1">
+<h1>Überblick Datensatz (Jahre 2017-2023)</h1>
 <p><img src="017_files/figure-html//vtree001.png" class="img-fluid" width="1000"></p>
 </section>
 <section id="sport-ag" class="level1">
 <h1>Sport-AG</h1>
-<ul>
-<li>102 Nennungen mit unvollständigen Angaben (keine Angabe zu Vereinsmitgliedschaft, Sport-AG oder Geschlecht) sind in der folgenden Abbildung nicht mit berücksichtigt</li>
-</ul>
 <div class="cell">
 <div class="cell-output-display">
-<p><img src="017_files/figure-html/unnamed-chunk-7-1.png" class="img-fluid" width="576"></p>
+<p><img src="017_files/figure-html/unnamed-chunk-8-1.png" class="img-fluid" width="576"></p>
 </div>
 </div>
 </section>
 <section id="vereinsmitgliedschaft" class="level1">
 <h1>Vereinsmitgliedschaft</h1>
-<ul>
-<li>102 Nennungen mit unvollständigen Angaben (keine Angabe zu Vereinsmitgliedschaft, Sport-AG oder Geschlecht) sind in der folgenden Abbildung nicht mit berücksichtigt</li>
-</ul>
 <div class="cell">
 <div class="cell-output-display">
-<p><img src="017_files/figure-html/unnamed-chunk-8-1.png" class="img-fluid" width="672"></p>
+<p><img src="017_files/figure-html/unnamed-chunk-9-1.png" class="img-fluid" width="672"></p>
 </div>
 </div>
 </section>
 <section id="weder-vereinsmitgliedschaft-noch-teilnahme-sport-ag" class="level1">
 <h1>Weder Vereinsmitgliedschaft noch Teilnahme Sport-AG</h1>
-<ul>
-<li>102 Nennungen mit unvollständigen Angaben (keine Angabe zu Vereinsmitgliedschaft, Sport-AG oder Geschlecht) sind in der folgenden Abbildung nicht mit berücksichtigt</li>
-</ul>
 <div class="cell">
 <div class="cell-output-display">
-<p><img src="017_files/figure-html/unnamed-chunk-9-1.png" class="img-fluid" width="672"></p>
+<p><img src="017_files/figure-html/unnamed-chunk-10-1.png" class="img-fluid" width="672"></p>
 </div>
 </div>
 </section>
